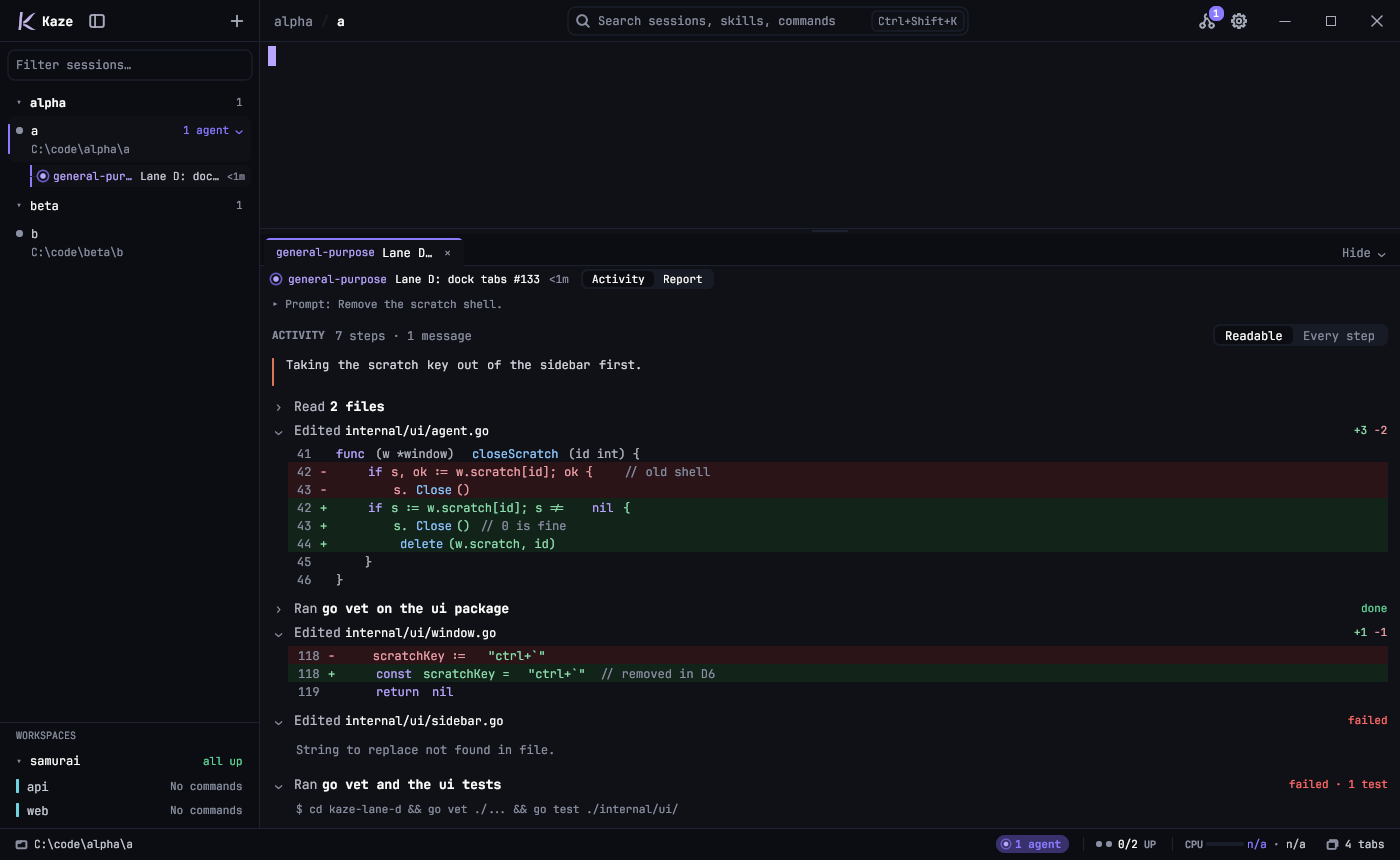
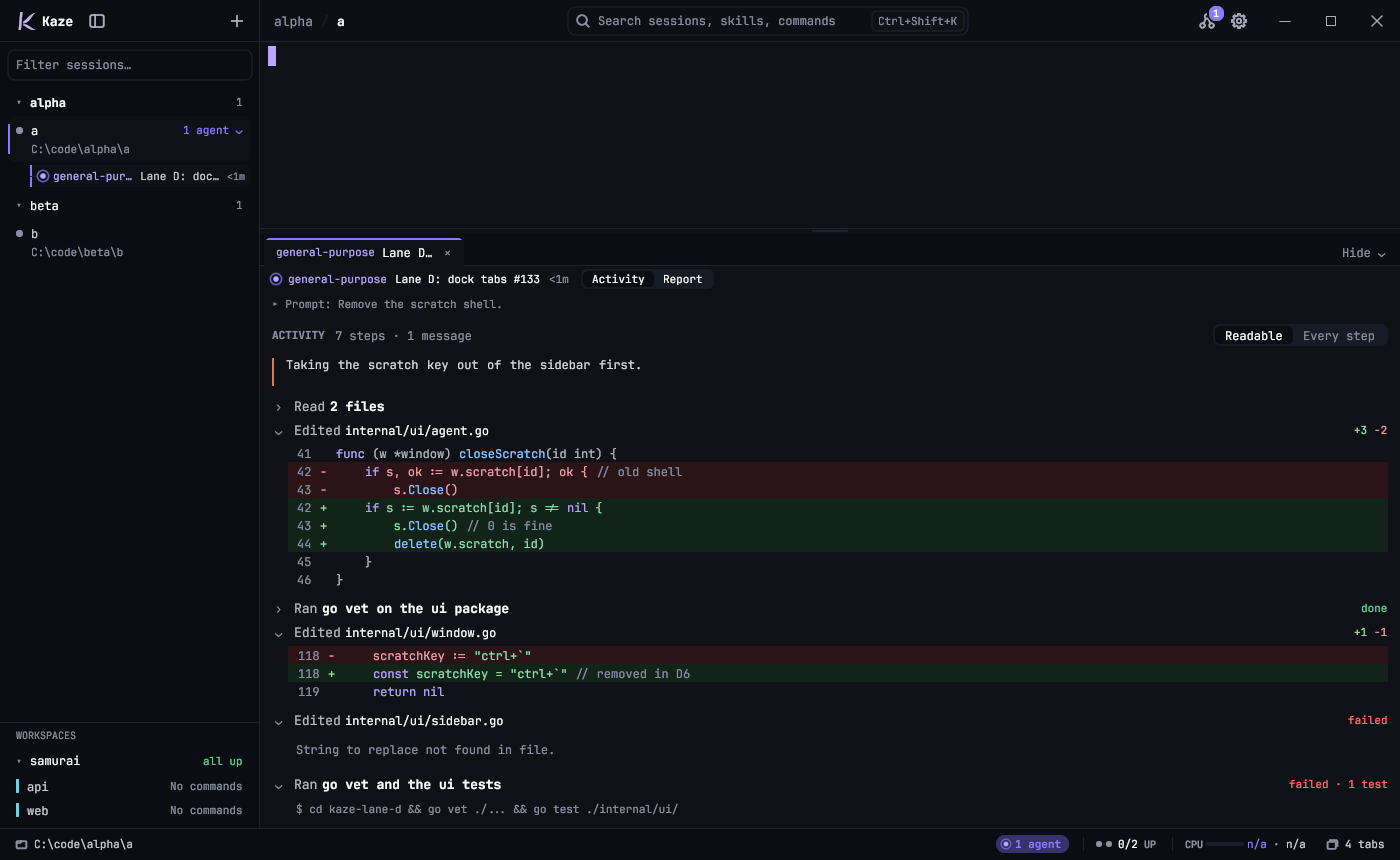
docs(dock): Correct the pane reading audit and retake its captures

Changed region(s): [[0.2764, 0.514, 0.4914, 0.6349], [0.2764, 0.7558, 0.4914, 0.8163]]

diff --git a/docs/audits/2026-11-09-subagent-pane-reading.md b/docs/audits/2026-11-09-subagent-pane-reading.md
@@ -24,15 +24,24 @@ machine, so they move by tens of percent between runs.
 
 | Scene | Allocations | Time | Limit |
 |---|---|---|---|
-| Edits open, 1000x600 (`TestOpenDiffsFrameTime`, 3 runs) | 73 | 290, 271, 216 µs | 120 / 400 µs |
-| Edits open, 1400x1000, tall panel, about 30 diff rows (`diffScene`, 5 runs) | 73 | 330, 385, 313, 383, 336 µs | 120 / 400 µs |
-| Folded, 21 steps, 1000x600 (3 runs) | 74 | 519, 249, 233 µs (the first run was a busy one) | 77.7 allocations (74 + 5%) |
-| Folded, 21 steps, eb17e90 against the finished work, median of 5 alternating runs (Task 5 report) | 74 both | 212 µs before, 211 µs after | within 5% |
+| Edits open, 1000x600 (3 runs after the column fix) | 73 | 220, 286, 218 µs | 120 / 400 µs |
+| Edits open, 1400x1000, tall panel, about 30 diff rows (3 runs after the column fix) | 73 | 342, 339, 346 µs | 120 / 400 µs |
+| Folded, 21 steps, 1000x600 (3 runs after the column fix) | 74 | 221, 218, 212 µs | 76.65 allocations and 217 µs (the spec's 73 and 207 µs, + 5%) |
+| Folded, 21 steps, 1400x1000 (3 runs after the column fix) | 78 | 409, 358, 348 µs | the spec has no baseline at this size |
+| Folded, 21 steps, eb17e90 against the finished work, median of 5 alternating runs (Task 5 report) | 74 both | 212 µs before, 211 µs after | shows this work added nothing |
 
-The big window is the one to watch. The 1400x1000 scene sat at 313 to 385 µs in this run. Task 5
-measured the same scene at 357 and 421 µs, so on a loaded machine it can pass the 400 µs line. The
-extra cost over folded there is about 150 µs, thought to be the input router and GPU walking the
-replayed ops, since each row is several labels. Cutting it would mean fewer colours per row. The
+The folded limit is measured against the spec's baseline: 73 allocations and 207 µs on a 1000x600
+frame, so 76.65 allocations and about 217 µs. The folded still frame is 74 allocations, inside that
+limit by count, and about 212 to 221 µs, which sits at the time limit and past it in two of three
+runs, on a machine that moves by tens of percent. Against eb17e90, the commit just before inline
+diffs, it was already 74 allocations and 212 µs, so the 1 allocation and most of the time were there
+before this work. `TestOpenDiffsStayWithinAllocations` guards a limit of 77.7 from eb17e90's 74, one
+step looser than the spec's 76.65.
+
+The big window is the one to watch. The 1400x1000 scene sat at 339 to 346 µs in these runs. Task 5
+measured the same scene at 357 and 421 µs, so on a loaded machine it can pass the 400 µs line. A
+folded pane at that size costs about the same (348 to 409 µs), so most of the time there is the
+big window itself rather than the open edits. The
 1000x600 frame the limits were set on stays under 400 µs in every run. This is a real-session
 check for the owner, not a pass or fail here.
 
@@ -74,12 +83,15 @@ What I looked at, against option B of the mockup, by opening each PNG:
 - The passed command is one line with `done`. The failed edit shows `failed` and its error line.
   The failed command is open, with its command shown (cut off at the bottom of the frame).
 - Reads fold to "Read 2 files", as in B.
+- Code lines up. Each colour span is placed at its character column from one measured character
+  width (a label's own width is rounded and leaves out trailing spaces, which once put false gaps
+  around coloured words and started equal indents at different columns). Rows with the same indent
+  start together, and a line of many colours ends where a plain line of the same length ends
+  (`dock_diff_columns_test.go`). Japanese text in a line is best effort: what follows it moves past
+  it, so that line's later columns no longer match its neighbours.
 
 Seen and not fixed (product code is out of scope for this task):
 
-- Spacing around coloured words is slightly uneven in places, for example extra space after `func`
-  and around `:=` and `nil`. Each colour span is its own label, so a boundary can show a small gap.
-  The row columns still line up at the start of each line. Worth a look in a real session.
 - `!=` draws as the JetBrains Mono ligature `≠`.
 - The Midnight and Washi frames show a terminal that is empty, because the fixture has no output.
 
@@ -91,5 +103,5 @@ delete rows).
 
 ## Owner checks
 
-See `docs/HANDOFF.md`. In short: a real run, odd spacing around colours, a 40-line edit and its
+See `docs/HANDOFF.md`. In short: a real run, a 40-line edit and its
 "N more lines", failed edit and command, fold and reopen, and scrolling on a large window.
